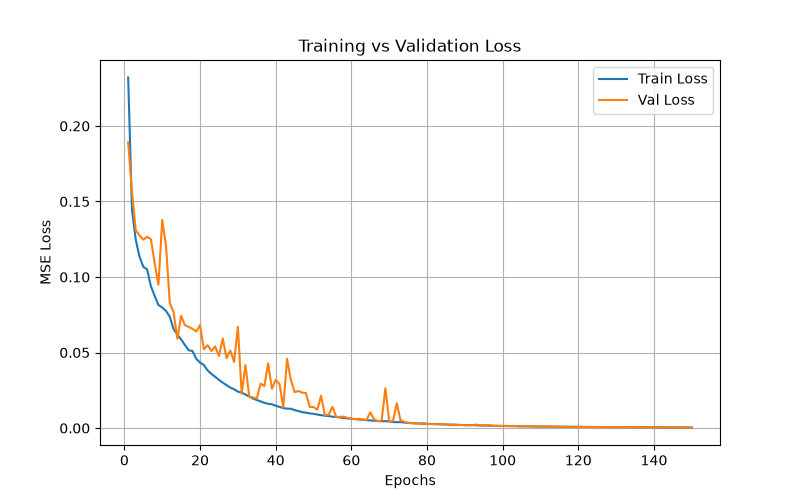
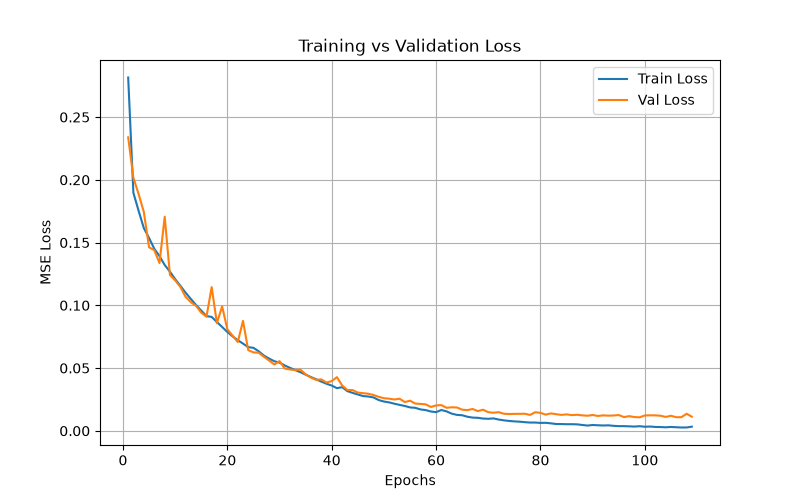
ı added vminvmax and changed the sigma3 to 6

diff --git a/train_model.py b/train_model.py
@@ -23,7 +23,7 @@ else:
 
 # --- 1. DATASET DEFINITION ---
 class MotorSliceDataset(Dataset):
-    def __init__(self, samples, sigma=3.0, patch_size=512):
+    def __init__(self, samples, sigma=6.0, patch_size=512):
         self.samples = samples
         self.sigma = sigma
         self.ps = patch_size
@@ -151,7 +151,10 @@ if __name__ == "__main__":
         for img, hm in train_loader:
             img, hm = img.to(DEVICE), hm.to(DEVICE)
             pred = model(img)
-            loss = loss_fn(pred, hm)
+            
+            # YENİ: Ağırlıklı MSE Loss
+            weight = hm * 100 + 1.0  
+            loss = torch.mean(weight * (pred - hm)**2)
             
             opt.zero_grad()
             loss.backward()
@@ -166,7 +169,11 @@ if __name__ == "__main__":
         with torch.no_grad():
             for img, hm in val_loader:
                 img, hm = img.to(DEVICE), hm.to(DEVICE)
-                vloss += loss_fn(model(img), hm).item()
+                pred_val = model(img) # Tahmini hesapla
+                
+                # YENİ: Doğrulama için Ağırlıklı MSE Loss
+                weight_val = hm * 100 + 1.0
+                vloss += torch.mean(weight_val * (pred_val - hm)**2).item()
         vloss /= max(len(val_loader), 1)
 
         train_losses.append(tloss)
@@ -237,13 +244,13 @@ if __name__ == "__main__":
         
         # 2. column:Target
         axes[i,1].imshow(img, cmap="gray")
-        axes[i,1].imshow(tgt, cmap="jet", alpha=0.4)
+        axes[i,1].imshow(tgt, cmap="jet", alpha=0.4, vmin=0, vmax=1)
         axes[i,1].set_title("Target")
         axes[i,1].axis("off")
         
         # 3.column:  Prediction
         axes[i,2].imshow(img, cmap="gray")
-        axes[i,2].imshow(pred, cmap="jet", alpha=0.4)
+        axes[i,2].imshow(pred, cmap="jet", alpha=0.4, vmin=0, vmax=1)
         axes[i,2].set_title("Prediction")
         axes[i,2].axis("off")
 